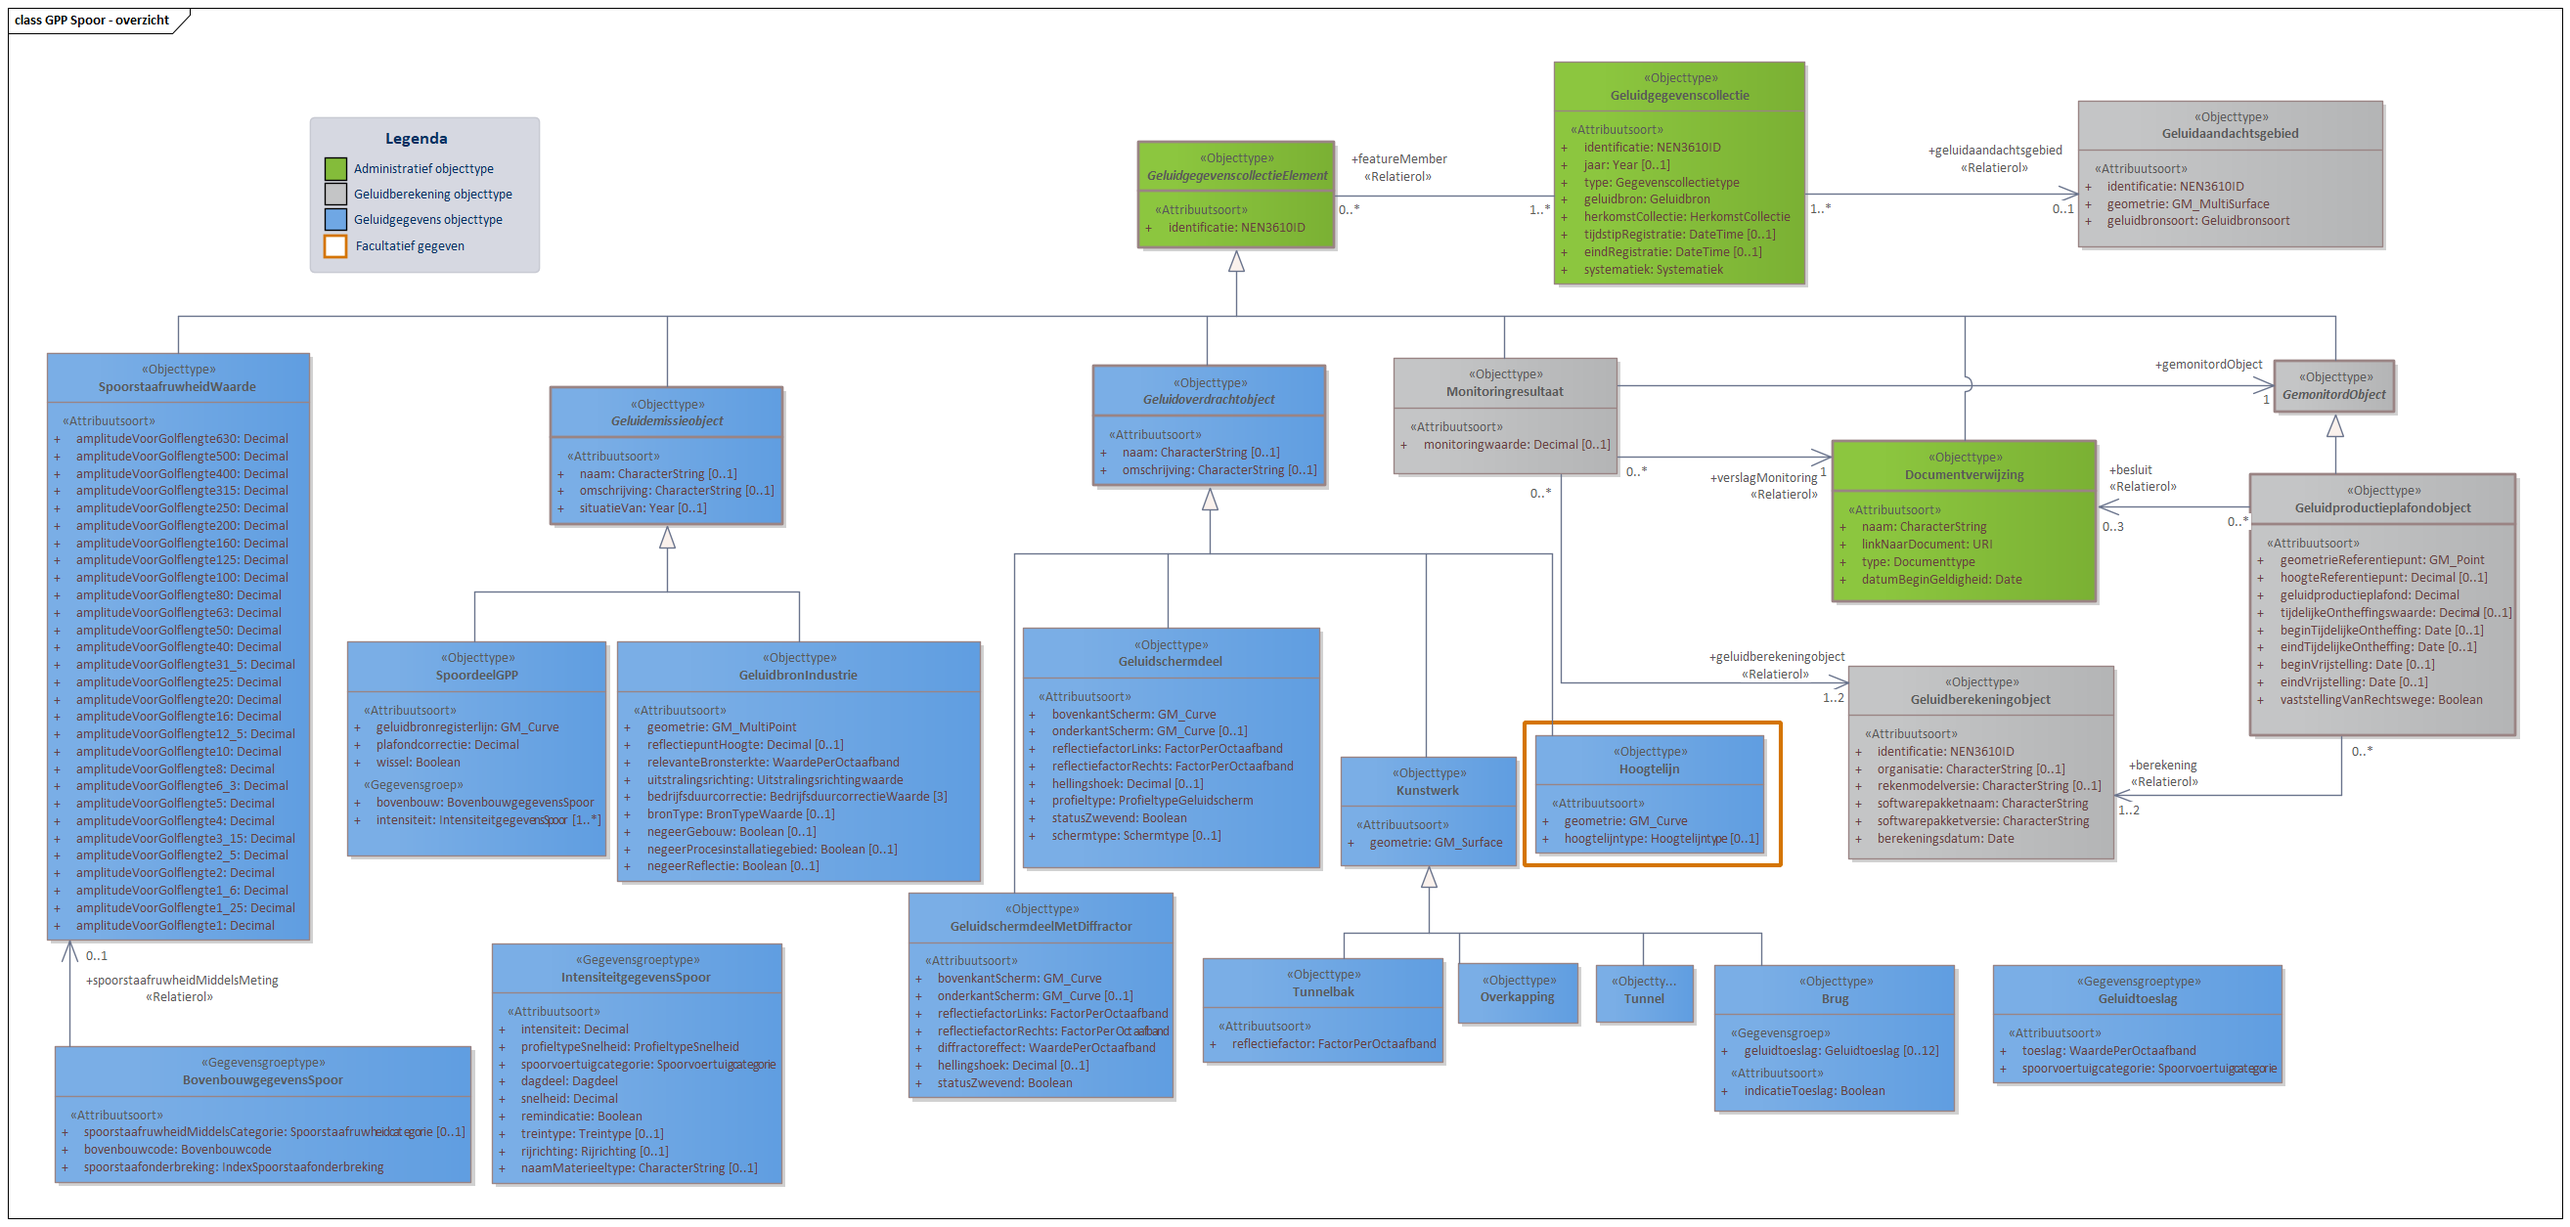
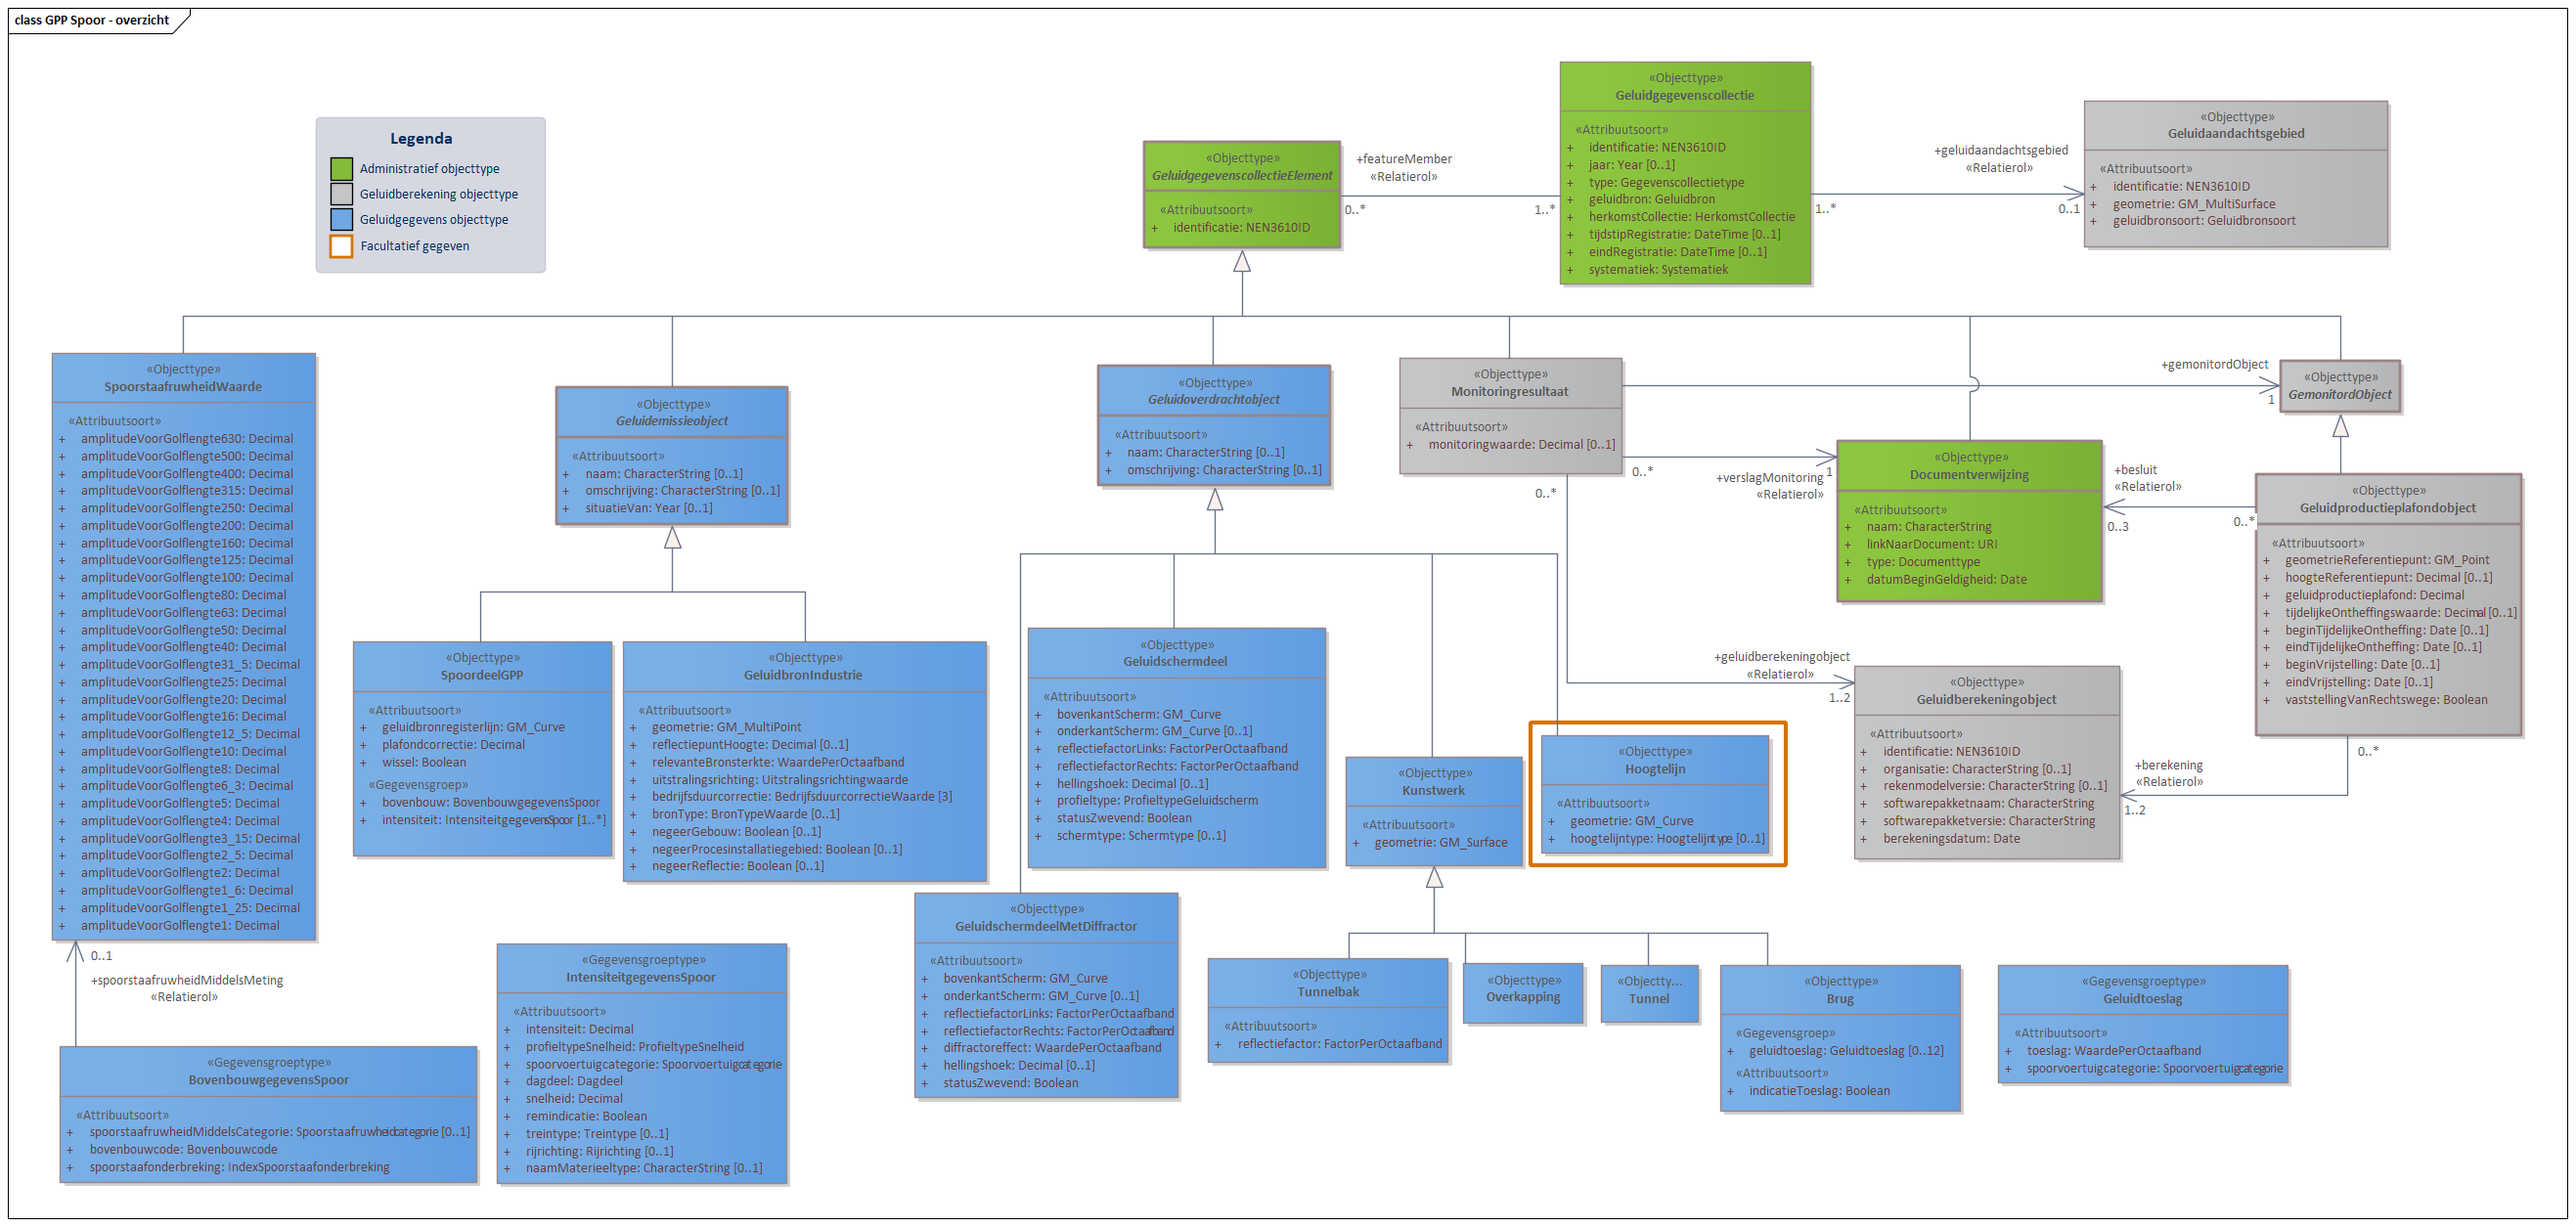
MIMLM-IMGeluid-3.1.1-0-20230920-20240725-123756

diff --git a/data/IMG-cat.respec.html b/data/IMG-cat.respec.html
@@ -1,7 +1,7 @@
 
 <!DOCTYPE HTML><section id="cat" class="normative">
    <h2>Gegevensdefinitie</h2>
-   <!--MIMLM-IMGeluid-3.1.1-0-20230920-20240710-135455 imvertor 3.0.0-->
+   <!--MIMLM-IMGeluid-3.1.1-0-20230920-20240725-123756 imvertor 3.0.0-->
    <section id="EAID_66AE8FA2_74FC_4d4d_B2B2_249C8D6A651F">
       <h3>   Basismodel - overzicht</h3>
       <div class="imageinfo overview">
@@ -113,7 +113,7 @@
       <h3>   GPP Spoor - overzicht</h3>
       <div class="imageinfo overview">
          <figure><img src="data/Images/EAID_33DF05AD_62E8_41d4_8CC0_8980CB80739F.png" usemap="#imagemap-EAID_33DF05AD_62E8_41d4_8CC0_8980CB80739F" alt="Diagram &#xA;                        In domeinmodel GPP Spoor staan objecttypen en relaties die relevant zijn voor geluidbronbeheersing van spoorwegen waarvoor de geluidproductieplafond regeling geldt; en die nodig zijn voor akoestisch onderzoek binnen het geluidaandachtsgebied van spoorwegen.&#xA;                        Geluidbronnen binnen GPP Spoor worden opgeslagen als lijnbron conform het object SpoordeelGPP, behalve voor geluidbronnen binnen spoorwegemplacementen. Deze geluidbronnen worden opgeslagen als GeluidbronIndustrie.&#xA;                        Voor ieder Geluidproductieplafondobject langs een Hoofdspoorweg, valt te herleiden op welke geluidberekening de geluidproductieplafondwaarde gebaseerd is. Deze informatie wordt bijgehouden conform het Geluidberekeningobject.&#xA;                        Ook valt er te herleiden welke geluidbrongegevens gebruikt zijn bij een geluidberekening. Deze geluidbrongegevens zijn samen met het Geluidberekeningsobject terug te vinden in een  Geluidgegevenscollectie in de vorm van gespecialiseerde geluidemissie- en geluidoverdrachtsobjecten.&#xA;                        &#xA;                        Klik met de rechtermuisknop op het diagram om de afbeelding op volledige grootte in een nieuw tabblad te openen&#xA;                        &#xA;                     "><figcaption>GPP Spoor</figcaption>
-         </figure><map name="imagemap-EAID_33DF05AD_62E8_41d4_8CC0_8980CB80739F"><area shape="rect" alt="GemonitordObject" coords="2326,369,2449,422" href="#global_class_IMGeluid_GemonitordObject"><area shape="rect" alt="GeluidschermdeelMetDiffractor" coords="929,913,1200,1123" href="#global_class_IMGeluid_GeluidschermdeelMetDiffractor"><area shape="rect" alt="IntensiteitgegevensSpoor" coords="503,965,800,1211" href="#global_class_IMGeluid_IntensiteitgegevensSpoor"><area shape="rect" alt="BovenbouwgegevensSpoor" coords="56,1070,482,1210" href="#global_class_IMGeluid_BovenbouwgegevensSpoor"><area shape="rect" alt="SpoorstaafruwheidWaarde" coords="48,361,317,962" href="#global_class_IMGeluid_SpoorstaafruwheidWaarde"><area shape="rect" alt="GeluidgegevenscollectieElement" coords="1164,145,1365,254" href="#global_class_IMGeluid_GeluidgegevenscollectieElement"><area shape="rect" alt="Geluidtoeslag" coords="2038,987,2334,1108" href="#global_class_IMGeluid_Geluidtoeslag"><area shape="rect" alt="Geluidgegevenscollectie" coords="1589,63,1846,291" href="#global_class_IMGeluid_Geluidgegevenscollectie"><area shape="rect" alt="Monitoringresultaat" coords="1425,366,1654,485" href="#global_class_IMGeluid_Monitoringresultaat"><area shape="rect" alt="GeluidbronIndustrie" coords="631,656,1003,902" href="#global_class_IMGeluid_GeluidbronIndustrie"><area shape="rect" alt="Kunstwerk" coords="1371,774,1551,886" href="#global_class_IMGeluid_Kunstwerk"><area shape="rect" alt="Overkapping" coords="1491,985,1614,1047" href="#global_class_IMGeluid_Overkapping"><area shape="rect" alt="Tunnelbak" coords="1230,980,1476,1087" href="#global_class_IMGeluid_Tunnelbak"><area shape="rect" alt="Tunnel" coords="1632,987,1732,1046" href="#global_class_IMGeluid_Tunnel"><area shape="rect" alt="Brug" coords="1753,987,1999,1137" href="#global_class_IMGeluid_Brug"><area shape="rect" alt="Geluidemissieobject" coords="563,396,801,537" href="#global_class_IMGeluid_Geluidemissieobject"><area shape="rect" alt="Geluidoverdrachtobject" coords="1118,374,1356,497" href="#global_class_IMGeluid_Geluidoverdrachtobject"><area shape="rect" alt="Geluidberekeningobject" coords="1890,681,2162,879" href="#global_class_IMGeluid_Geluidberekeningobject"><area shape="rect" alt="Documentverwijzing" coords="1874,451,2144,616" href="#global_class_IMGeluid_Documentverwijzing"><area shape="rect" alt="Geluidaandachtsgebied" coords="2125,103,2437,253" href="#global_class_IMGeluid_Geluidaandachtsgebied"><area shape="rect" alt="Geluidproductieplafondobject" coords="2301,485,2573,753" href="#global_class_IMGeluid_Geluidproductieplafondobject"><area shape="rect" alt="SpoordeelGPP" coords="355,656,620,876" href="#global_class_IMGeluid_SpoordeelGPP"><area shape="rect" alt="Geluidschermdeel" coords="1046,642,1350,888" href="#global_class_IMGeluid_Geluidschermdeel"><area shape="rect" alt="Hoogtelijn" coords="1570,752,1804,873" href="#global_class_IMGeluid_Hoogtelijn"></map><p>
+         </figure><map name="imagemap-EAID_33DF05AD_62E8_41d4_8CC0_8980CB80739F"><area shape="rect" alt="GemonitordObject" coords="2332,369,2455,422" href="#global_class_IMGeluid_GemonitordObject"><area shape="rect" alt="GeluidschermdeelMetDiffractor" coords="935,913,1205,1123" href="#global_class_IMGeluid_GeluidschermdeelMetDiffractor"><area shape="rect" alt="IntensiteitgegevensSpoor" coords="508,965,805,1211" href="#global_class_IMGeluid_IntensiteitgegevensSpoor"><area shape="rect" alt="BovenbouwgegevensSpoor" coords="61,1070,488,1210" href="#global_class_IMGeluid_BovenbouwgegevensSpoor"><area shape="rect" alt="SpoorstaafruwheidWaarde" coords="53,361,323,962" href="#global_class_IMGeluid_SpoorstaafruwheidWaarde"><area shape="rect" alt="GeluidgegevenscollectieElement" coords="1170,145,1371,254" href="#global_class_IMGeluid_GeluidgegevenscollectieElement"><area shape="rect" alt="Geluidtoeslag" coords="2043,987,2340,1108" href="#global_class_IMGeluid_Geluidtoeslag"><area shape="rect" alt="Geluidgegevenscollectie" coords="1595,63,1852,291" href="#global_class_IMGeluid_Geluidgegevenscollectie"><area shape="rect" alt="Monitoringresultaat" coords="1431,366,1659,485" href="#global_class_IMGeluid_Monitoringresultaat"><area shape="rect" alt="GeluidbronIndustrie" coords="637,656,1009,902" href="#global_class_IMGeluid_GeluidbronIndustrie"><area shape="rect" alt="Kunstwerk" coords="1376,774,1557,886" href="#global_class_IMGeluid_Kunstwerk"><area shape="rect" alt="Overkapping" coords="1496,985,1619,1047" href="#global_class_IMGeluid_Overkapping"><area shape="rect" alt="Tunnelbak" coords="1235,980,1481,1087" href="#global_class_IMGeluid_Tunnelbak"><area shape="rect" alt="Tunnel" coords="1637,987,1737,1046" href="#global_class_IMGeluid_Tunnel"><area shape="rect" alt="Brug" coords="1759,987,2005,1137" href="#global_class_IMGeluid_Brug"><area shape="rect" alt="Geluidemissieobject" coords="569,396,806,537" href="#global_class_IMGeluid_Geluidemissieobject"><area shape="rect" alt="Geluidoverdrachtobject" coords="1123,374,1361,497" href="#global_class_IMGeluid_Geluidoverdrachtobject"><area shape="rect" alt="Geluidberekeningobject" coords="1896,681,2168,879" href="#global_class_IMGeluid_Geluidberekeningobject"><area shape="rect" alt="Documentverwijzing" coords="1879,451,2150,616" href="#global_class_IMGeluid_Documentverwijzing"><area shape="rect" alt="Geluidaandachtsgebied" coords="2131,103,2442,253" href="#global_class_IMGeluid_Geluidaandachtsgebied"><area shape="rect" alt="Geluidproductieplafondobject" coords="2307,485,2579,753" href="#global_class_IMGeluid_Geluidproductieplafondobject"><area shape="rect" alt="SpoordeelGPP" coords="361,656,626,876" href="#global_class_IMGeluid_SpoordeelGPP"><area shape="rect" alt="Geluidschermdeel" coords="1051,642,1356,888" href="#global_class_IMGeluid_Geluidschermdeel"><area shape="rect" alt="Hoogtelijn" coords="1576,752,1809,873" href="#global_class_IMGeluid_Hoogtelijn"></map><p>
             
             <p>In domeinmodel GPP Spoor staan objecttypen en relaties die relevant zijn voor geluidbronbeheersing
                van spoorwegen waarvoor de geluidproductieplafond regeling geldt; en die nodig zijn
@@ -18773,10 +18773,7 @@
                               genoemd.
                               De Z-waarde voor de hoogte van het spoor is de bovenkant van de spoorstaaf (BS). Zie
                               ook fig 33 uit de meet en rekenvoorschriften: 
-                              <a href="data/Images/fig33_dwarsdoorsnee_talud.png">fig33_dwarsdoorsnee_talud</a>
-                              <figure><img src="data/Images/fig33_dwarsdoorsnee_talud.png"></figure>
-                           
-                           </p>
+                              <a href="{ges/fig33-dwarsdoorsnee-talud.png'" shape="rect">fig33_dwarsdoorsnee_talud</a>)</p>
                            
                            </td>
                      </tr>
@@ -33994,7 +33991,7 @@
 </section>
 <section id="lis" class="normative">
    <h2>Inhoud van waardenlijsten</h2>
-   <!--MIMLM-IMGeluid-3.1.1-0-20230920-20240710-135455 imvertor 3.0.0-->
+   <!--MIMLM-IMGeluid-3.1.1-0-20230920-20240725-123756 imvertor 3.0.0-->
    <section id="detail_class_IMGeluid_Schermtype">
       <h3>Enumeratie details  Schermtype</h3>
       
